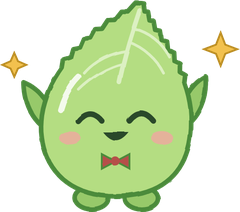
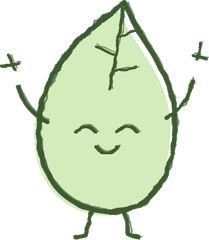
feat: switch Mr. Chali to the sketchy doodle style

diff --git a/js/game.js b/js/game.js
@@ -11,7 +11,7 @@ const clamp = (v, a, b) => Math.max(a, Math.min(b, v));
 const shuffle = a => { a = a.slice(); for (let i = a.length - 1; i > 0; i--) { const j = Math.floor(Math.random() * (i + 1)); [a[i], a[j]] = [a[j], a[i]]; } return a; };
 const pickN = (arr, n, not) => shuffle(arr.filter(x => x !== not)).slice(0, n);
 const A = 'assets/';
-const SAMIMG = { idle: A + 'chali_idle_1.png', talk: A + 'chali_idle_2.png', happy: A + 'chali_happy_correct.png', cold: A + 'chali_wrong_1.png', wilt: A + 'chali_wrong_2.png' };   // 導覽角色：茶理先生
+const SAMIMG = { idle: A + 'chali_idle_1.png?v=2', talk: A + 'chali_idle_2.png?v=2', happy: A + 'chali_happy_correct.png?v=2', cold: A + 'chali_wrong_1.png?v=2', wilt: A + 'chali_wrong_2.png?v=2' };   // 導覽角色：茶理先生
 Object.values(SAMIMG).forEach(s => { new Image().src = s; });
 const stage = $('#tStage');
 let mistakes = 0;
@@ -286,7 +286,7 @@ async function certificate() {
   const date = new Date().toLocaleDateString('zh-TW', { year: 'numeric', month: 'long', day: 'numeric' });
   await setScene(`<div class="cert">
     <span class="kicker">找茶證書</span>
-    <img class="cert-sam" src="${A}chali_happy_correct.png" alt="">
+    <img class="cert-sam" src="${A}chali_happy_correct.png?v=2" alt="">
     <h2>${title}</h2>
     <p class="cert-stars">★ ${total} / ${LEVELS.length * 3}</p>
     <p class="cert-txt">完成「大家來找茶」四關茶葉知識挑戰，認識了台灣名茶、日月潭紅茶與沖泡方法。</p>
@@ -322,7 +322,7 @@ async function main() {
   $('#btnMenu').addEventListener('click', () => { if (busy) { if (!confirm('要離開這一關，回到關卡選單嗎？')) return; location.reload(); return; } showMenu(); });
   Sound.bgm('day');
   stage.innerHTML = `<div class="intro-art"><p class="intro-school">${ORG.school}<br>${ORG.team}</p><h1>${ORG.name}</h1><p>茶葉知識小遊戲・四個關卡</p>
-    <div class="intro-row"><img src="${A}item_withered_leaf.png" alt=""><img src="${A}chali_idle_1.png" alt=""><div class="b-cup" style="position:relative;left:auto;translate:none;width:30%;--liq:#c4301c">${CUP()}</div></div></div>`;
+    <div class="intro-row"><img src="${A}item_withered_leaf.png" alt=""><img src="${A}chali_idle_1.png?v=2" alt=""><div class="b-cup" style="position:relative;left:auto;translate:none;width:30%;--liq:#c4301c">${CUP()}</div></div></div>`;
   await G.say('嗨！我是茶理先生，鹿谷茶園裡的一片茶葉。歡迎來到大家來找茶！我們一起用四個關卡，認識茶的大小事。');
   await G.next(Prog.total() ? '繼續找茶' : '開始找茶');
   showMenu();

diff --git a/index.html b/index.html
@@ -49,7 +49,7 @@
 
   <footer class="t-guide">
     <div class="g-box" id="gBox">
-      <div class="g-sam sam-shake"><img id="gImg" src="assets/chali_idle_1.png" alt="茶理先生" draggable="false"></div>
+      <div class="g-sam sam-shake"><img id="gImg" src="assets/chali_idle_1.png?v=2" alt="茶理先生" draggable="false"></div>
       <div class="g-body">
         <b class="g-name">茶理先生</b>
         <p class="g-text" id="gText"></p>
@@ -71,6 +71,6 @@
 </script>
 <script src="js/audio.js?v=2"></script>
 <script src="js/data.js?v=3"></script>
-<script src="js/game.js?v=5"></script>
+<script src="js/game.js?v=6"></script>
 </body>
 </html>
